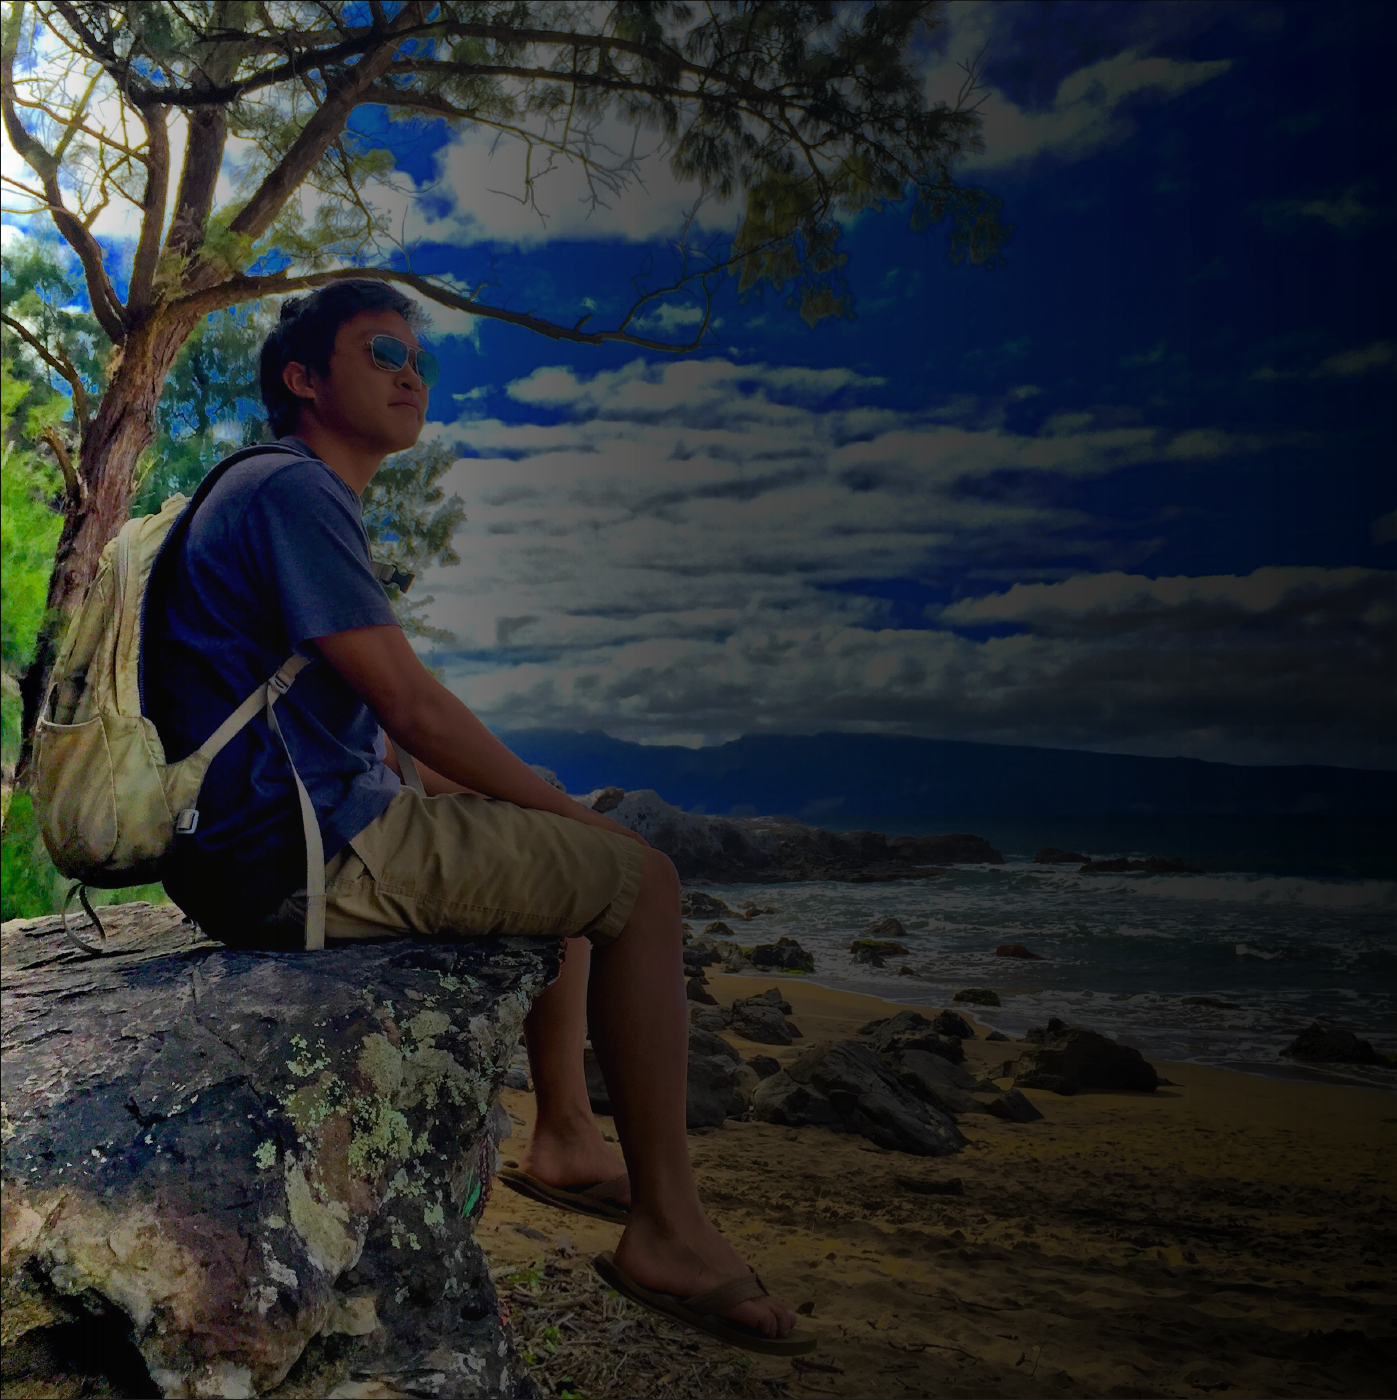
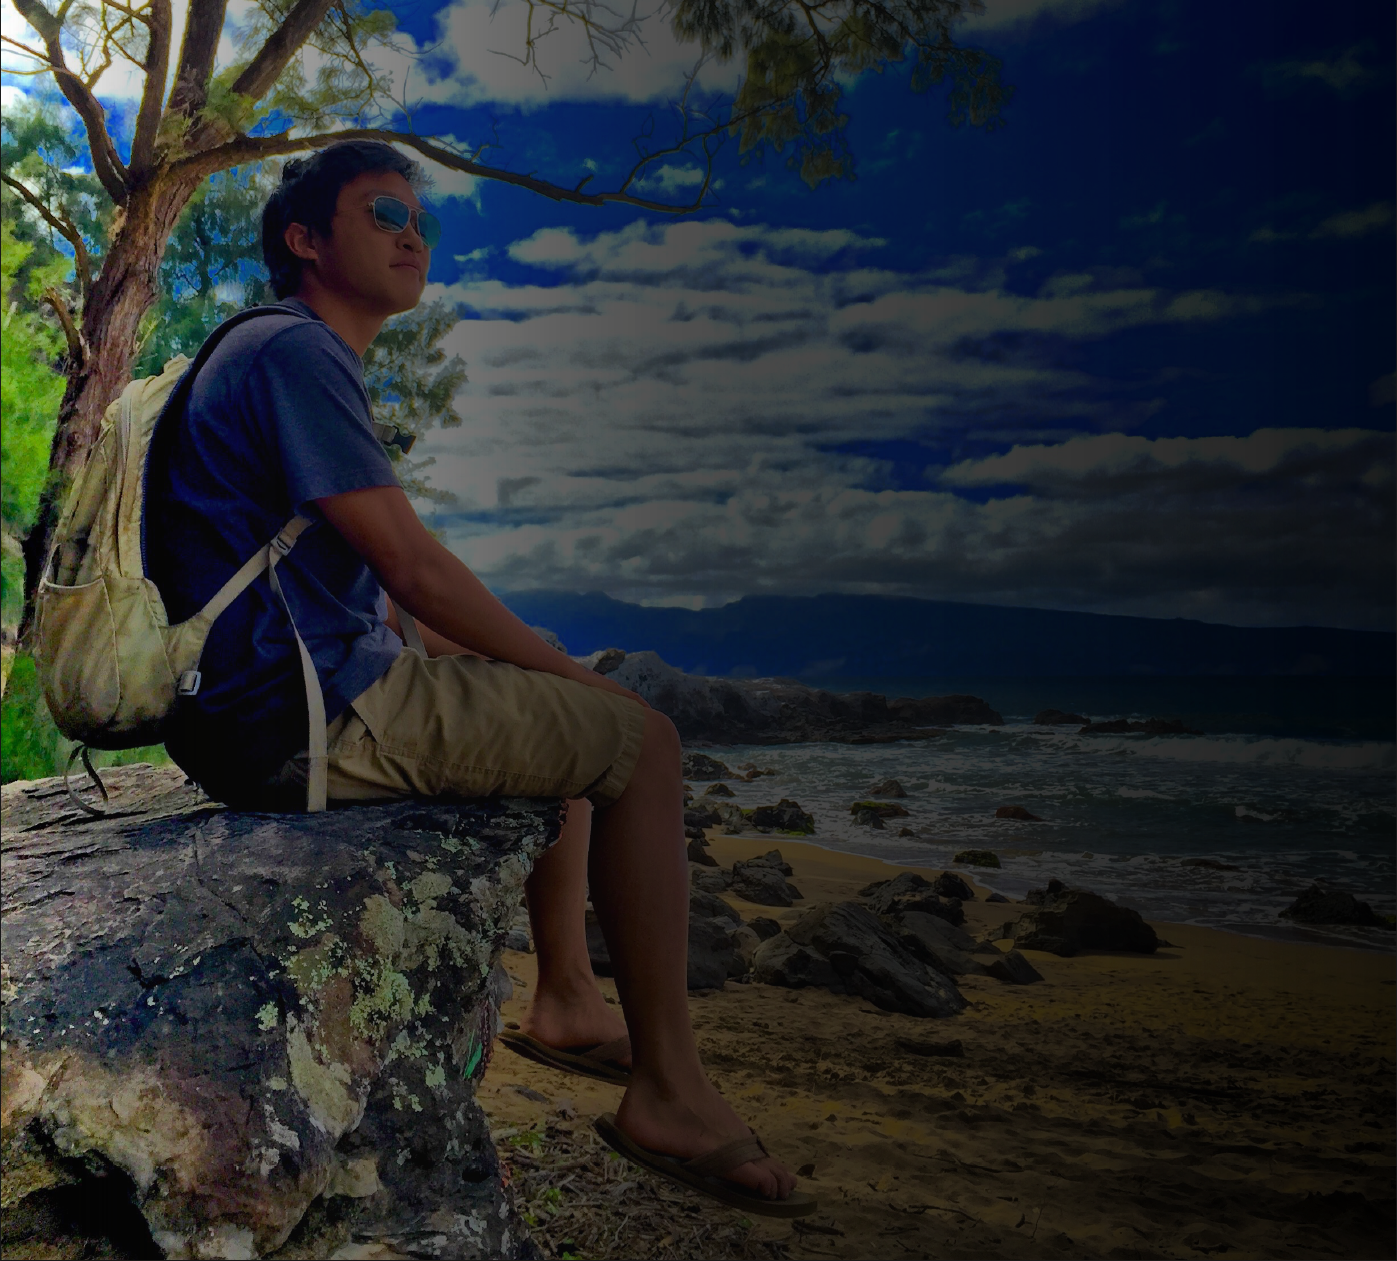
Updated cover page
+New background image
+New contact section

diff --git a/views/home.html b/views/home.html
@@ -1,7 +1,8 @@
-<div class="home-container">
+<div id="cover" class="home-container">
 	<div class="nav">
 		<ul class="nav-list">
 			<li><a href="#works">Works</a></li>
+			<li><a href="misc/antoniolee-resume.pdf">Resume</li>
 			<li><a href="#">Home</a></li>
 		</ul>
 	</div>
@@ -21,6 +22,8 @@
 
 		<p class="skills-header"> Skills </p>
 		<div class="skills">
+			<p class="green">&nbsp&nbsp DESIGN &nbsp&nbsp</p>
+			<p class="green">&nbsp&nbsp DEVELOPMENT &nbsp&nbsp</p>
 			<p class="green">&nbsp&nbsp ILLUSTRATOR &nbsp&nbsp</p>
 			<p class="green">&nbsp&nbsp PHOTOSHOP &nbsp&nbsp</p>
 			<p class="blue">&nbsp&nbsp HTML &nbsp&nbsp</p>
@@ -30,6 +33,12 @@
 			<p class="orange">&nbsp&nbsp LUA &nbsp&nbsp</p>
 			<p class="orange">&nbsp&nbsp C# &nbsp&nbsp</p>
 			<p class="orange">&nbsp&nbsp JAVA &nbsp&nbsp</p>
+			<p class="yellow">&nbsp&nbsp SKATEBOARDING &nbsp&nbsp</p>
+			<p class="yellow">&nbsp&nbsp GUITAR &nbsp&nbsp</p>
+			<p class="yellow">&nbsp&nbsp MUSIC &nbsp&nbsp</p>
+			<p class="pink">&nbsp&nbsp ADVENTURING &nbsp&nbsp</p>
+			<p class="pink">&nbsp&nbsp COOKING &nbsp&nbsp</p>
+			<p class="pink">&nbsp&nbsp DREAMING &nbsp&nbsp</p>
 		</div>
 	</div>
 

diff --git a/views/works.html b/views/works.html
@@ -3,6 +3,7 @@
 
 		<ul class="nav-list">
 			<li><a href="#works">Works</a></li>
+			<li><a href="misc/antoniolee-resume.pdf">Resume</li>
 			<li><a href="#/">Home</a></li>
 		</ul>
 
